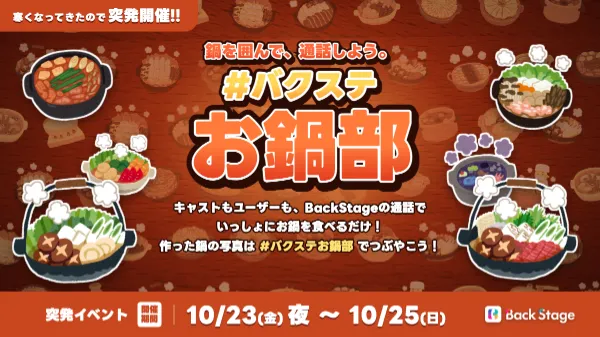
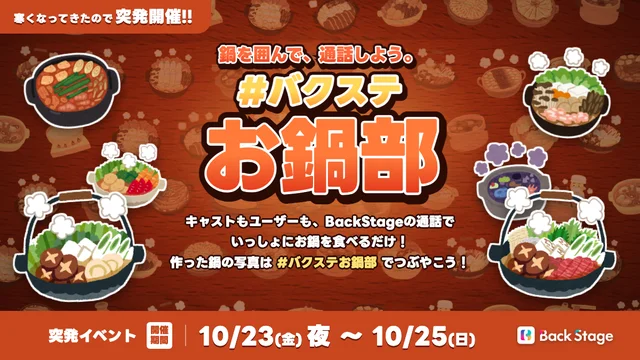
deploy: あゆみページ自動デプロイ BackStage-unei/bs-history@cf52a92b2b3e308f225d423c264030fc2c4369dc

diff --git a/app.js b/app.js
@@ -46,18 +46,20 @@
     return wrap;
   }
 
-  // 出来事のサムネイル。リンクがあれば先頭のリンク（イベントページ）へ
-  function evImage(src, links) {
+  // 出来事のサムネイルを、動画カード（ルキチャレの PV など）と同じ大きさのカードにする（画像の文字を隠さないよう印は付けない）。押すと先頭のリンク（イベントページ）へ
+  function eventCard(t, img, links, cls) {
     const first = (links || [])[0];
-    const box = first ? el('a', 'ev__img') : el('span', 'ev__img');
+    const card = first ? el('a', 'vcard vcard--event ' + (cls || '')) : el('div', 'vcard vcard--event ' + (cls || ''));
     if (first) {
-      box.href = first.url;
-      if (new URL(first.url).hostname === 'back-stage.app') box.target = '_top';
-      else { box.target = '_blank'; box.rel = 'noopener'; }
+      card.href = first.url;
+      if (new URL(first.url).hostname === 'back-stage.app') card.target = '_top';
+      else { card.target = '_blank'; card.rel = 'noopener'; }
     }
-    const img = el('img'); img.src = src; img.alt = ''; img.loading = 'lazy';
-    box.append(img);
-    return box;
+    const th = el('span', 'vcard__thumb');
+    const im = el('img'); im.src = img; im.alt = ''; im.loading = 'lazy';
+    th.append(im);
+    card.append(th, el('span', 'vcard__title', t.split(' — ')[0]));
+    return card;
   }
 
   function tag(series) {
@@ -231,7 +233,6 @@
         li.style.setProperty('--c', (D.series[s] || { color: '#ff7aa8' }).color);
         const [y, m] = ym.split('-');
         li.append(el('span', 'ev__ym', `${y}.${Number(m)}`), el('span', 'ev__t', t));
-        if (img) li.append(evImage(img, links));
         if (links && links.length) li.append(evLinks(links));
         ev.append(li);
       });
@@ -241,8 +242,10 @@
         ch.casts.forEach(id => g.append(personEl(id, 's')));
         sec.append(g);
       }
-      if (ch.videos.length) {
+      const evCards = ch.events.filter(e => e[4]);
+      if (ch.videos.length || evCards.length) {
         const strip = el('div', 'ch__videos');
+        evCards.forEach(([, , t, links, img]) => strip.append(eventCard(t, img, links)));
         ch.videos.forEach(v => strip.append(videoCard(v)));
         sec.append(strip);
       }
@@ -412,16 +415,18 @@
         r.events.forEach(e => {
           const it = el('li', 'ev'); it.style.setProperty('--c', (D.series[e.s] || { color: '#c99aff' }).color);
           it.append(el('span', 'ev__t', e.t));
-          if (e.img) it.append(evImage(e.img, e.links));
           if (e.links) it.append(evLinks(e.links));
           ul.append(it);
         });
         body.append(ul);
       }
-      if (r.videos.length) {
+      const evCards = r.events.filter(e => e.img);
+      if (r.videos.length || evCards.length) {
         const vs = el('div', 'mt__videos');
-        r.videos.slice(0, 4).forEach(v => vs.append(videoCard(v, 'vcard--sm')));
-        if (r.videos.length > 4) vs.append(el('span', 'mt__more', `ほか ${r.videos.length - 4}本`));
+        evCards.forEach(e => vs.append(eventCard(e.t, e.img, e.links, 'vcard--sm')));
+        const room = Math.max(0, 4 - evCards.length);
+        r.videos.slice(0, room).forEach(v => vs.append(videoCard(v, 'vcard--sm')));
+        if (r.videos.length > room) vs.append(el('span', 'mt__more', `ほか ${r.videos.length - room}本`));
         body.append(vs);
       }
       if (r.fm.length) {

diff --git a/style.css b/style.css
@@ -263,8 +263,3 @@ html[data-bg='veil'] body { background: var(--veil); }
 .ev__links { grid-column: -2 / -1; display: flex; flex-wrap: wrap; gap: 6px; margin-top: 2px; }
 .ev__link { font-size: .74rem; font-weight: 700; color: var(--text); background: var(--surface-2); border: 1px solid var(--line); border-radius: 999px; padding: 3px 11px; }
 @media (hover: hover) { .ev__link:hover { border-color: var(--c); color: var(--c); } }
-
-/* 出来事のサムネイル（公式サイトのイベント一覧と同じ 16:9） */
-.ev__img { grid-column: -2 / -1; display: block; width: min(100%, 360px); aspect-ratio: 16 / 9; margin-top: 6px; border-radius: 12px; overflow: hidden; border: 1px solid var(--line); background: var(--surface-2); }
-.ev__img img { width: 100%; height: 100%; object-fit: cover; display: block; transition: transform .25s; }
-@media (hover: hover) { a.ev__img:hover img { transform: scale(1.04); } }
